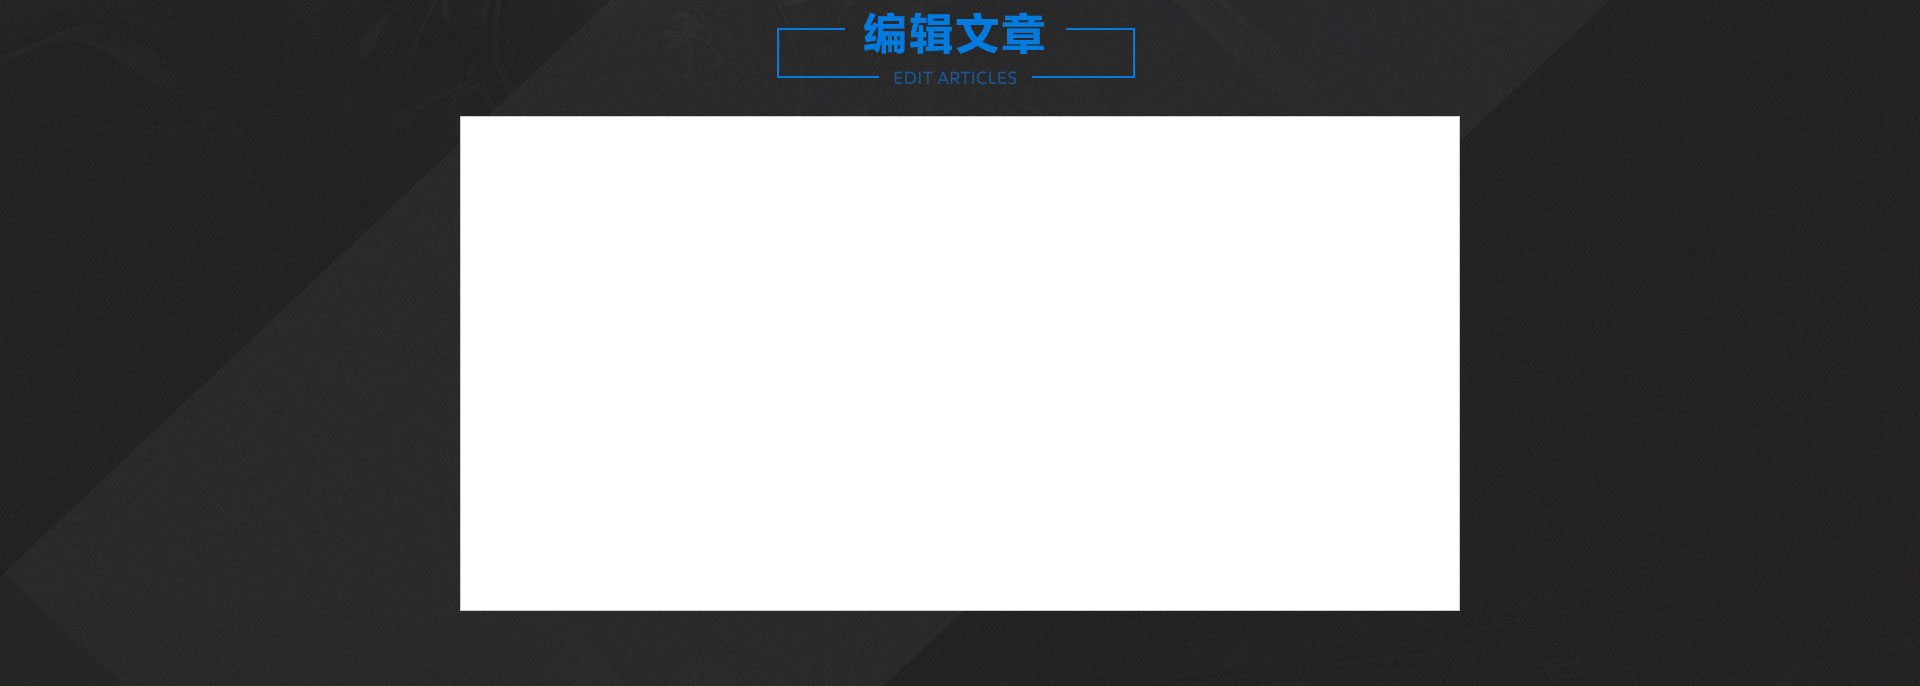
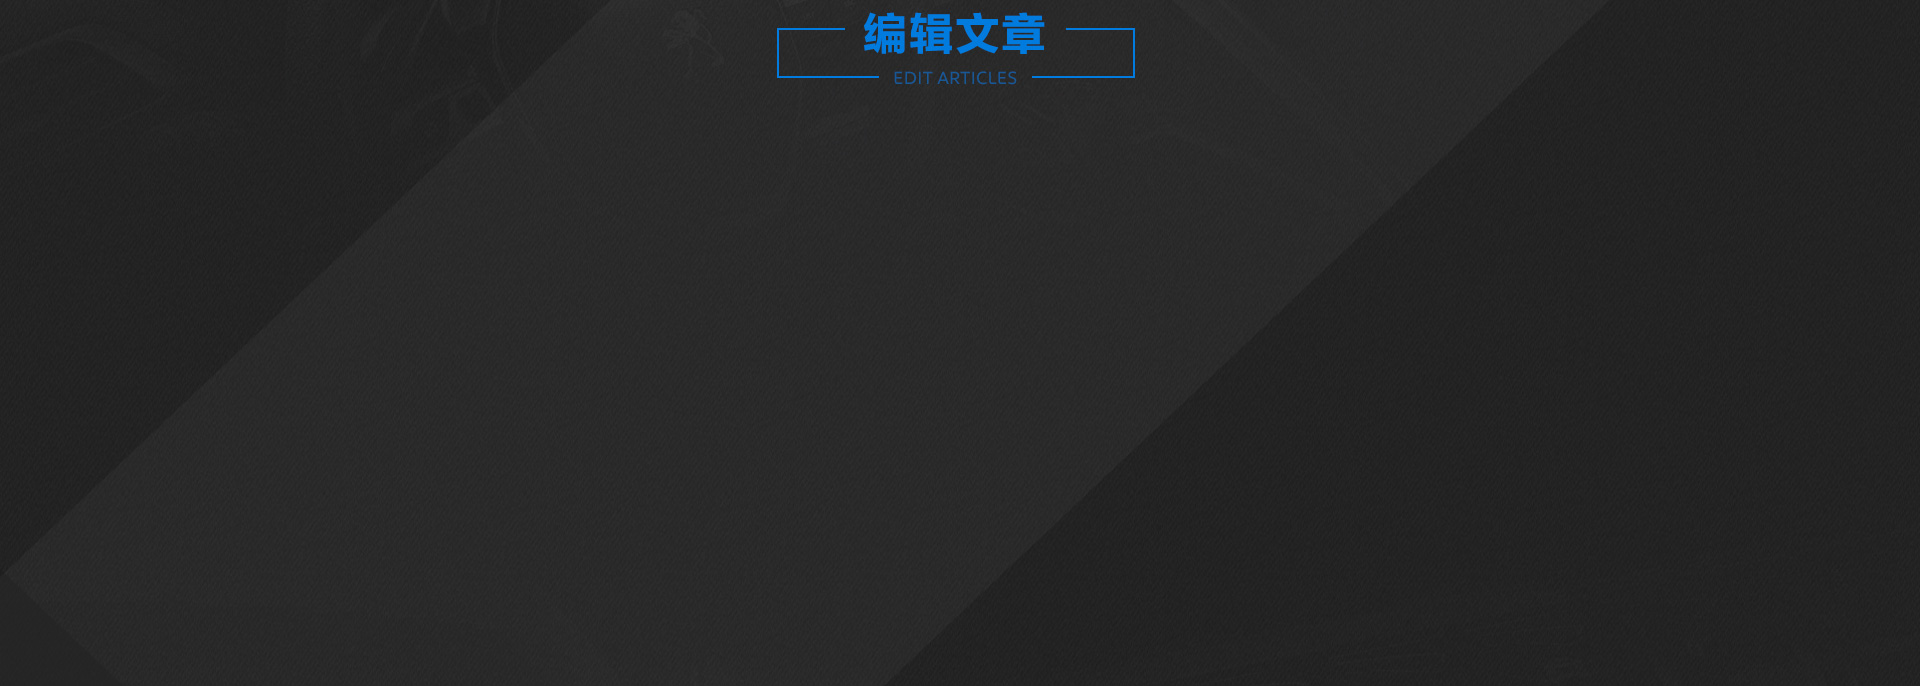
更新编辑文章

diff --git a/peugeot/dongb_pc.html b/peugeot/dongb_pc.html
@@ -56,16 +56,38 @@
     </div>
     <!-- 编辑文章 -->
     <div class="box02">
-    <a   target="_blank" href="http://news.qichedaquan.com/news/shangpeiruanwen/20170330/147867.html">
-       <img class="dbs" src="images/dbs.jpg"/>
-       <div class="bdss">
-           <!--<h2>X008 SUV盛会</h2>
-           <p>2017年4月1日至2017年4月21日，东风标致“0”息“0”税“0”元保养回馈活动倾情开启，参与活动即有机会赢取丰厚大奖！</p>-->
-           <h2 style="font-size:16px;">科技公司的人更应该会讨女人欢心</h2>
-           <p>在没有访问之前，其实编者本人是对这个问题抱有很大疑问的，科技公司？就是那个由程序猿、码农组成的只有1和2的世界吗？！编者读书少你不要骗我，网上流传这样着一个段子，说程序猿钓到一个美人鱼，结果又默默的放到了大海里，同伴问why？他回答说：因为没有API...</p>
-       </div>
-       <img class="dbss" src="images/tm.png"/>
-       </a>
+        <div id="slideBox" class="slideBox_s">
+
+        <div class="bds">
+        
+        <ul>
+            <li>
+                <a target="_blank" href="http://news.qichedaquan.com/news/shangpeiruanwen/20170330/147867.html">
+                   <img class="dbs" src="images/dbs.jpg"/>
+                   <div class="bdss">
+                       <h2 style="font-size:16px;">科技公司的人更应该会讨女人欢心</h2>
+                       <p>在没有访问之前，其实编者本人是对这个问题抱有很大疑问的，科技公司？就是那个由程序猿、码农组成的只有1和2的世界吗？！编者读书少你不要骗我，网上流传这样着一个段子，说程序猿钓到一个美人鱼，结果又默默的放到了大海里，同伴问why？他回答说：因为没有API...</p>
+                   </div>
+                   <img class="dbss" src="images/tm.png"/>
+                   </a>
+            </li>
+            <li>
+                <a target="_blank" href="http://news.qichedaquan.com/news/danchepingce/20170407/148294.html">
+                   <img class="dbs" src="images/dbss.jpg"/>
+                   <div class="bdss">
+                       <h2 style="font-size:16px;">玩另类绝对是把好手 测东标4008</h2>
+                       <p>凡是和法国沾边的东西，最大的特点是什么？就是太有特点了！就像最近很火的法国时尚品牌Balenciaga，玩另类绝对是把好手，一个“编织袋”红遍大江南北，各路大小明星都抢着背，也是醉了。法国车当然也不例外，给人留下的第一印象大多是时尚、另类、夸张和大胆的设计，那么问题来了...</p>
+                   </div>
+                   <img class="dbss" src="images/tm.png"/>
+                   </a>
+            </li>
+        </ul>
+        
+        </div>
+       <!-- 下面是前/后按钮代码，如果不需要删除即可 -->
+        <a class="prev" href="javascript:void(0)"><img src="images/left.png"/></a>
+        <a class="next" href="javascript:void(0)"><img src="images/right.png"/></a>
+        </div>    
     </div>
     <!-- 编辑文章 -end-->
     <!-- 车型亮点 -->
@@ -270,6 +292,19 @@
     newPlayer: true,
     show_related:false
     });
+</script>
+<!-- 编辑文章轮播 -->
+<script type="text/javascript">
+    var ary = location.href.split("&");
+        jQuery(".slideBox_s").slide( { 
+            mainCell:".bds ul", 
+            effect:"fold",
+           // autoPlay:true,
+            trigger:ary[3],
+            easing:ary[4],
+            delayTime:ary[5],
+            mouseOverStop:ary[6],
+            pnLoop:ary[7] });
 </script>
 <!-- 4008 -->
 <script type="text/javascript">

diff --git a/peugeot/css/dobSty.css b/peugeot/css/dobSty.css
@@ -53,13 +53,13 @@ a:hover {color:#FFF; text-decoration:underline;}
 
 .box{/*background:url(../images/bg01.jpg) no-repeat center top;*/}
 .boxCont{height:1398px;}
-.boxOne{background:url(../images/bg01.1.jpg) no-repeat center top;height:544px;}
-.boxTwo{background:url(../images/bg01.2.jpg) no-repeat center top;height:854px;}
+.boxOne{background:url(../images/bg01.1.jpg) no-repeat center top;height:544px;width:100%;float:left;}
+.boxTwo{background:url(../images/bg01.2.jpg) no-repeat center top;height:854px;width:100%;float:left;}
 .box01{width:1000px;overflow: hidden;margin:0 auto;height:854px;position:relative;}
-.box02{background:url(../images/bg02.jpg) no-repeat center top; height:686px;position: relative;}
-.box03{background:url(../images/bg03.jpg) no-repeat center top; height:1590px;}
-.box04{background:url(../images/bg04.jpg) no-repeat center top; height:650px;}
-.box05{background:url(../images/bg05.jpg) no-repeat center top; height:839px;}
+.box02{position:relative;background:url(../images/bg02.jpg) no-repeat center top; height:686px;width:100%;float:left;}
+.box03{background:url(../images/bg03.jpg) no-repeat center top; height:1590px;width:100%;float:left;}
+.box04{background:url(../images/bg04.jpg) no-repeat center top; height:650px;width:100%;float:left;}
+.box05{background:url(../images/bg05.jpg) no-repeat center top; height:839px;width:100%;float:left;}
 .tk01{position: absolute;top:50px;right:427px;width:155px;height:20px;cursor: pointer}
 /*.dB{width:1000px;margin:0 auto;height:500px;padding-top:140px;}*/
 
@@ -149,9 +149,21 @@ a:hover {color:#FFF; text-decoration:underline;}
 .videoBox{position:absolute;top:100px;right:82px;width:576px;height:320px;}
 .video video{width:100%;}
 
-.box02 img.dbs {position:absolute;width:632px;height:469px;margin-top:130px;left:50%;margin-left:-490px;}
-.box02 .bdss{position:absolute;width:260px;height:300px;left:50%;margin-left:170px;top:270px;}
-.box02 .bdss h2{font-size:22px;font-weight:normal;color:#132551;}
-.box02 .bdss p{font-size:12px;font-weight:normal;color:#132551;margin-top:15px;}
-.box02 h3{border:10px solid #7fb0e2;position:absolute;}
-.box02 img.dbss{ width:426px; height:371px; display:block;position:absolute;margin-top:183px;left:50%;margin-left:20px;  }
+.box02 .slideBox_s img.dbs {width:632px;float:left;height:469px;margin-top:15px;margin-left:15px;}
+.box02 .slideBox_s .bdss{width:260px;height:300px;float:right;margin-right:70px;margin-top:140px;}
+.box02 .slideBox_s .bdss h2{font-size:22px;font-weight:normal;color:#132551;}
+.box02 .slideBox_s .bdss p{font-size:12px;font-weight:normal;color:#132551;margin-top:15px;}
+.box02 .slideBox_s h3{border:10px solid #7fb0e2;position:absolute;}
+.box02 .slideBox_s img.dbss{ width:426px; height:371px;position:absolute;top:66px;right:36px;  }
+
+.slideBox_s{ width:1000px; background: #fff;height:496px;margin:0 auto;margin-top:115px; overflow:hidden; position:relative;  }
+/*.bds{width:1000px;overflow: hidden;background: #fff;height:496px;margin:0 auto;margin-top:115px;position: relative;}*/
+
+.slideBox_s .prev,
+.slideBox_s .next{filter:alpha(opacity=50);opacity:0.5; width:40px;height:76px;display: block;background: #000}
+.slideBox_s .prev{position: absolute;top:195px;left:0px;}
+.slideBox_s .next{position: absolute;top:195px;right:0px;}
+.slideBox_s .prev:hover,
+.slideBox_s .next:hover{ filter:alpha(opacity=20);opacity:0.2;  }
+.slideBox_s .prev img,
+.slideBox_s.next img{}
